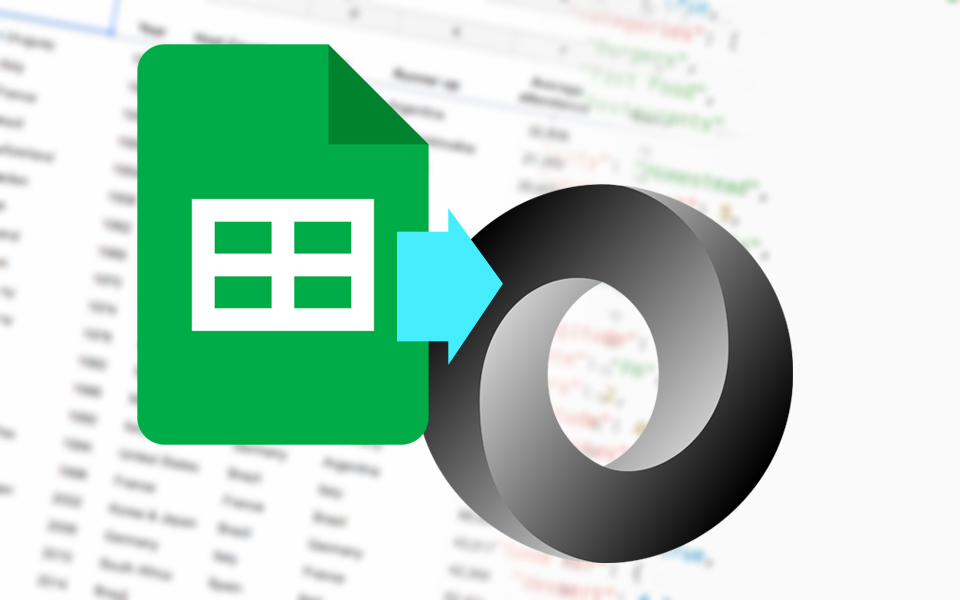
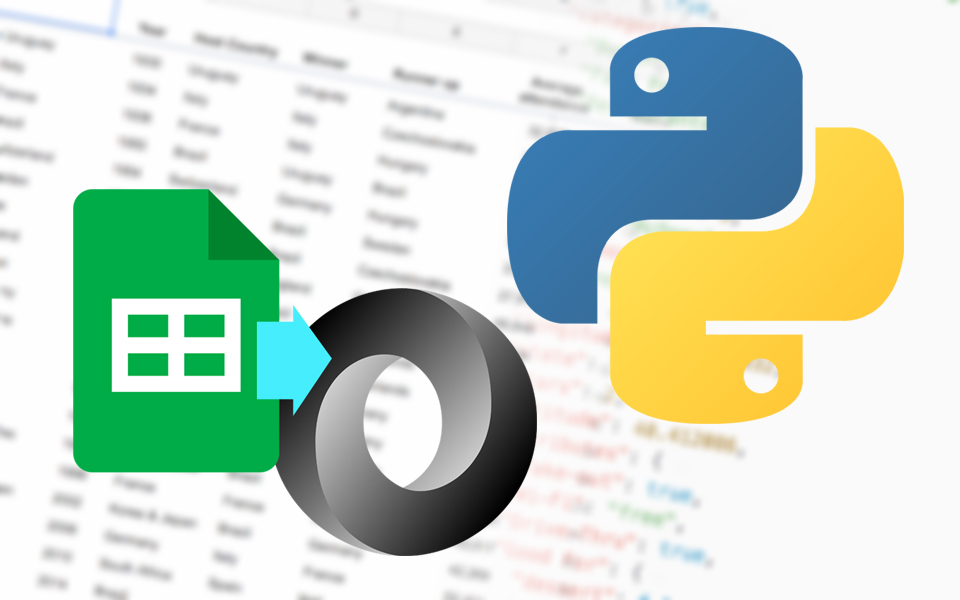
updated graphics and links

diff --git a/index.html b/index.html
@@ -110,7 +110,7 @@
         <div class="row">
           <div class="col-md-4">
             <div class="work-box">
-              <a href="assets/img/work-4.jpg" data-gallery="portfolioGallery" class="portfolio-lightbox">
+              <a href="assets/studies/case-study-2.html" data-gallery="portfolioGallery" class="portfolio-lightbox">
                 <div class="work-img">
                   <img src="assets/img/work-4.jpg" alt="" class="img-fluid">
                 </div>
@@ -120,7 +120,7 @@
                   <div class="col-sm-8">
                     <h2 class="w-title">House Price Fluctuation Analysis</h2>
                     <div class="w-more">
-                      <span class="w-ctegory">Case Study</span> / <span class="w-date">July 2023</span>
+                      <span class="w-ctegory">Case Study - Python</span> / <span class="w-date">July 2023</span>
                     </div>
                   </div>
                   <div class="col-sm-4">
@@ -134,7 +134,7 @@
           </div>
           <div class="col-md-4">
             <div class="work-box">
-              <a href="assets/img/work-3.jpg" data-gallery="portfolioGallery" class="portfolio-lightbox">
+              <a href="assets/studies/case-study-1.html" data-gallery="portfolioGallery" class="portfolio-lightbox">
                 <div class="work-img">
                   <img src="assets/img/work-3.jpg" alt="" class="img-fluid">
                 </div>
@@ -144,7 +144,7 @@
                   <div class="col-sm-8">
                     <h2 class="w-title">Cyclistic Bike-share Analysis</h2>
                     <div class="w-more">
-                      <span class="w-ctegory">Case Study</span> / <span class="w-date">July 2023</span>
+                      <span class="w-ctegory">Case Study - R</span> / <span class="w-date">July 2023</span>
                     </div>
                   </div>
                   <div class="col-sm-4">
@@ -168,7 +168,7 @@
                   <div class="col-sm-8">
                     <h2 class="w-title">Sheets 2 JSON</h2>
                     <div class="w-more">
-                      <span class="w-ctegory">Python Development</span> / <span class="w-date">May 2023</span>
+                      <span class="w-ctegory">Development - Python, JSON</span> / <span class="w-date">May 2023</span>
                     </div>
                   </div>
                   <div class="col-sm-4">
@@ -192,7 +192,7 @@
                   <div class="col-sm-8">
                     <h2 class="w-title">Twitch Reader</h2>
                     <div class="w-more">
-                      <span class="w-ctegory">Python Development</span> / <span class="w-date">Nov. 2022</span>
+                      <span class="w-ctegory">Development - Python</span> / <span class="w-date">Nov. 2022</span>
                     </div>
                   </div>
                   <div class="col-sm-4">
